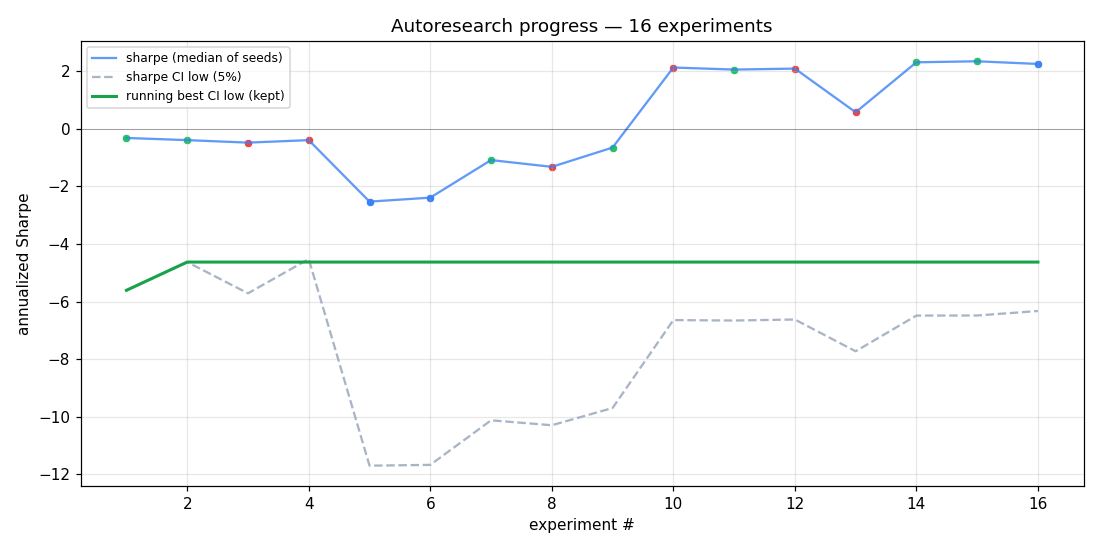
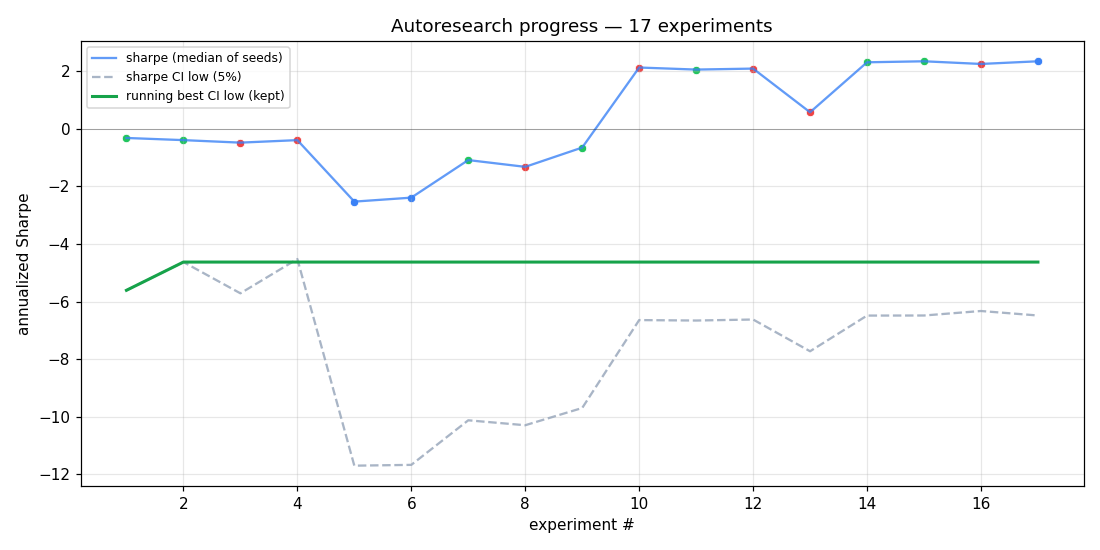
exp13 DISCARD; exp14: D_MODEL 96→64 — test if model is over-capacity
3 keepers in a row plateaued at +2.348 sharpe. To break through, try
SMALLER model — less capacity means less ability to memorize, may
generalize better. Will also be ~1.5× faster.

diff --git a/experiment.py b/experiment.py
@@ -206,8 +206,8 @@ def featurize(bars: pd.DataFrame, context: dict[str, pd.DataFrame] | None = None
 # ============================================================================
 
 PATCH_LEN = 8
-CONTEXT_PATCHES = 16            # context window = PATCH_LEN * CONTEXT_PATCHES = 128 bars
-D_MODEL = 96                    # bumped from 64 — more features now
+CONTEXT_PATCHES = 24            # exp12: 24*8=192 bars (~3.2h) — more macro context
+D_MODEL = 64                    # exp14: smaller — less overfit on 14d eval
 N_HEADS = 4
 N_LAYERS = 3
 D_FF = 192
@@ -216,7 +216,7 @@ PRED_HORIZON = 5
 RL_REWARD_HORIZON = 3
 ACTION_HEAD_HOLD_BIAS = 1.5     # exp10: softmax([-1.5,1.5,-1.5]) ≈ [4.7%,90.6%,4.7%]: be even more selective
 
-PRETRAIN_EPOCHS = 3             # exp13: more supervised pretraining now that we have 18 features
+PRETRAIN_EPOCHS = 2             # supervised forecast pretrain on TRAIN slice
 PRETRAIN_BATCH = 128
 PRETRAIN_LR = 3e-4
 RL_PRETRAIN_EPOCHS = 1          # offline RL pass(es) on TRAIN slice

diff --git a/README.md b/README.md
@@ -6,8 +6,8 @@ Karpathy-style [autoresearch](https://github.com/karpathy/autoresearch) harness,
 
 <!-- RESULTS_START -->
 
-_Last updated: 2026-04-30 07:55 UTC_  
-_Total experiments: **16**  ·  kept: **7**  ·  latest commit: `7baaa23`_
+_Last updated: 2026-04-30 08:03 UTC_  
+_Total experiments: **17**  ·  kept: **7**  ·  latest commit: `94f2940`_
 
 ### Latest experiment
 
@@ -15,14 +15,14 @@ _Total experiments: **16**  ·  kept: **7**  ·  latest commit: `7baaa23`_
 
 | metric | value |
 |---|---|
-| Sharpe (median over seeds) | **+2.255** |
-| Sharpe — bootstrap CI low (5%) | **-6.327** |
-| Sharpe — bootstrap CI high (95%) | +10.013 |
+| Sharpe (median over seeds) | **+2.348** |
+| Sharpe — bootstrap CI low (5%) | **-6.483** |
+| Sharpe — bootstrap CI high (95%) | +10.170 |
 | Max drawdown | -0.30% |
-| Net PnL | $+72.25 (+0.145%) |
-| Trades | 11 |
-| Fees / slippage | $11.00 / $2.21 |
-| Wall time | 285.9s |
+| Net PnL | $+75.39 (+0.151%) |
+| Trades | 13 |
+| Fees / slippage | $13.00 / $2.61 |
+| Wall time | 312.3s |
 | Seeds completed | 10 |
 
 ### Progress over all experiments
